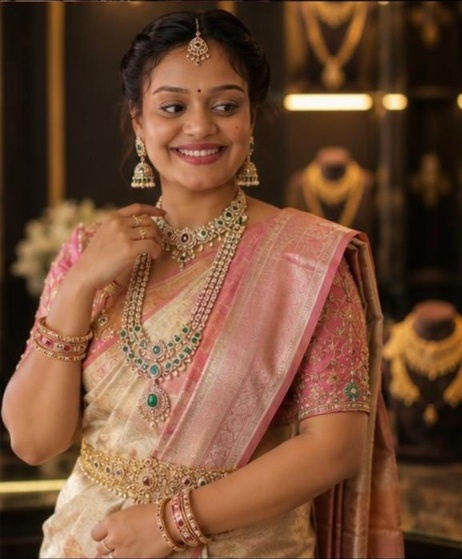
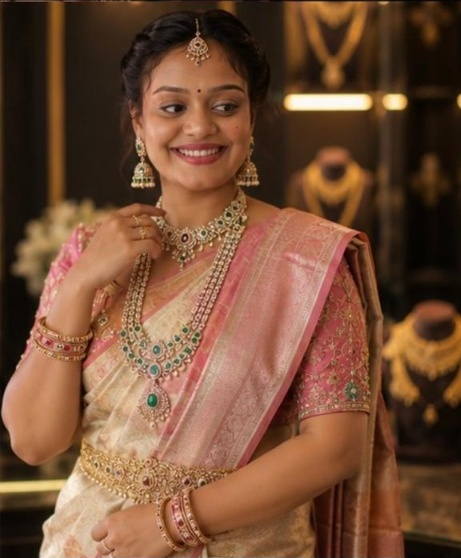
fix: adjust mobile hero container height to 210px with object-top positioning to eliminate top black bar and center lettering cleanly over model photo

diff --git a/frontend/src/pages/store/Storefront.jsx b/frontend/src/pages/store/Storefront.jsx
@@ -220,7 +220,7 @@ const Storefront = () => {
 
       {/* Hero Banner Carousel */}
       <div className="max-w-6xl mx-auto px-3 sm:px-4 pt-3 sm:pt-4 pb-2">
-        <div className="relative h-[320px] sm:h-[360px] md:h-[420px] lg:h-[480px] rounded-2xl md:rounded-3xl overflow-hidden bg-black shadow-md group">
+        <div className="relative h-[210px] sm:h-[280px] md:h-[360px] lg:h-[420px] rounded-2xl md:rounded-3xl overflow-hidden bg-black shadow-md group">
           {bannerSlides.map((slide, idx) => (
             <div
               key={idx}
@@ -229,10 +229,10 @@ const Storefront = () => {
               <img
                 src={slide.image}
                 alt={slide.title}
-                className={`w-full h-full object-cover ${idx === 0 ? 'object-[center_10%]' : idx === 1 ? 'object-[center_5%]' : 'object-[center_10%]'}`}
+                className="w-full h-full object-cover object-top sm:object-center"
               />
-              {/* Very minimal text shadow gradient overlay to keep photos bright and vivid */}
-              <div className="absolute inset-0 bg-gradient-to-r from-black/50 via-black/15 to-transparent" />
+              {/* Subtle gradient to keep lettering crisp over the model photo */}
+              <div className="absolute inset-0 bg-gradient-to-r from-black/65 via-black/25 to-transparent" />
 
               <div className="absolute inset-0 flex items-center px-4 sm:px-10 md:px-14">
                 <div className="max-w-[85%] sm:max-w-[60%] text-white">
